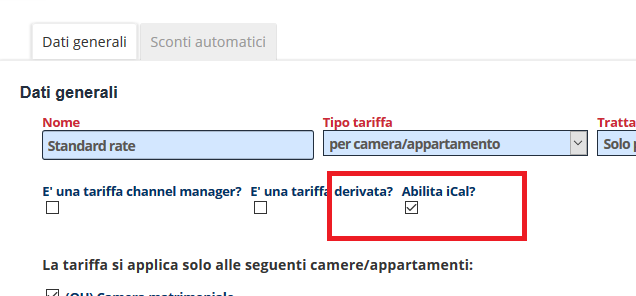
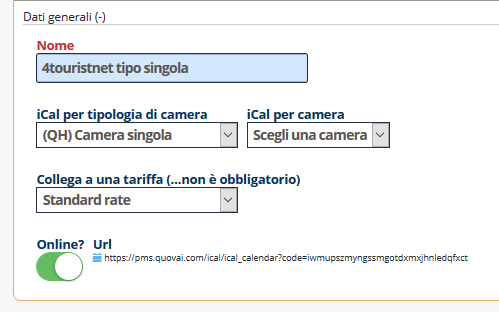
aggiornamento ical

Changed region(s): [[0.0301, 0.1216, 1.0, 1.0], [0.0301, 0.0, 1.0, 0.0912], [0.4509, 0.0608, 1.0, 0.0912]]

diff --git a/calendario-ical-come-utilizzarlo-it.md b/calendario-ical-come-utilizzarlo-it.md
@@ -1,5 +1,6 @@
 
 
+
 [Indice](index.md) / [Quovai PMS](quovai-pms-it.md) / Calendario iCal - come utilizzarlo
 
 # **Calendario iCal - come utilizzarlo**
@@ -10,23 +11,19 @@ I portali più conosciuti che possono essere aggiornati tramite iCal sono **Home
 
 **Occorre:**  
   
-1. Andare in Configurazione->Tariffe
+1. Andare in Configurazione-> iCal
 
 ![](images/iCal-001.png)
 
-2. Entrare in modifica della tariffa. 
+2. Sotto Lista iCal / crea nuovo  
  
 ![](images/iCal-002.png)
   
-3. Impostare "**iCal abilitato**" e salvare.
+3. Riempire i campi (scelta fra tipologia o camera/appartamento). Il campo "nome" viene generato automaticamente.
 
 ![](images/iCal-003.png)
-
-4. Cliccare sul link iCal (vedere immagine sotto) con il mouse destro e copiare l'indirizzo che potrete inserire nei portali che ve lo richiedono.
-
-![](images/iCal-004.png)
   
-5. Inserire il link nel portale scelto. All'interno del portale è importante assegnare **un nome al calendario** in modo da poterlo riconoscere facilmente.
+4. Inserire il link nel portale scelto. All'interno del portale è importante assegnare **un nome al calendario** in modo da poterlo riconoscere facilmente.
   
 **Alcune guide per sincronizzare i calendari:**  
 [https://aiuto.homeaway.it/articles/Come-sincronizzo-il-mio-calendario-di-HomeAway-con-un-altro-calendario](https://aiuto.homeaway.it/articles/Come-sincronizzo-il-mio-calendario-di-HomeAway-con-un-altro-calendario)  
@@ -36,3 +33,7 @@ I portali più conosciuti che possono essere aggiornati tramite iCal sono **Home
 
 VIDEO su **Come creare un iCal per inviare la disponibilità ai portali**  
 [https://youtu.be/NxLciNKSyNE](https://youtu.be/NxLciNKSyNE)
+
+
+  
+  
